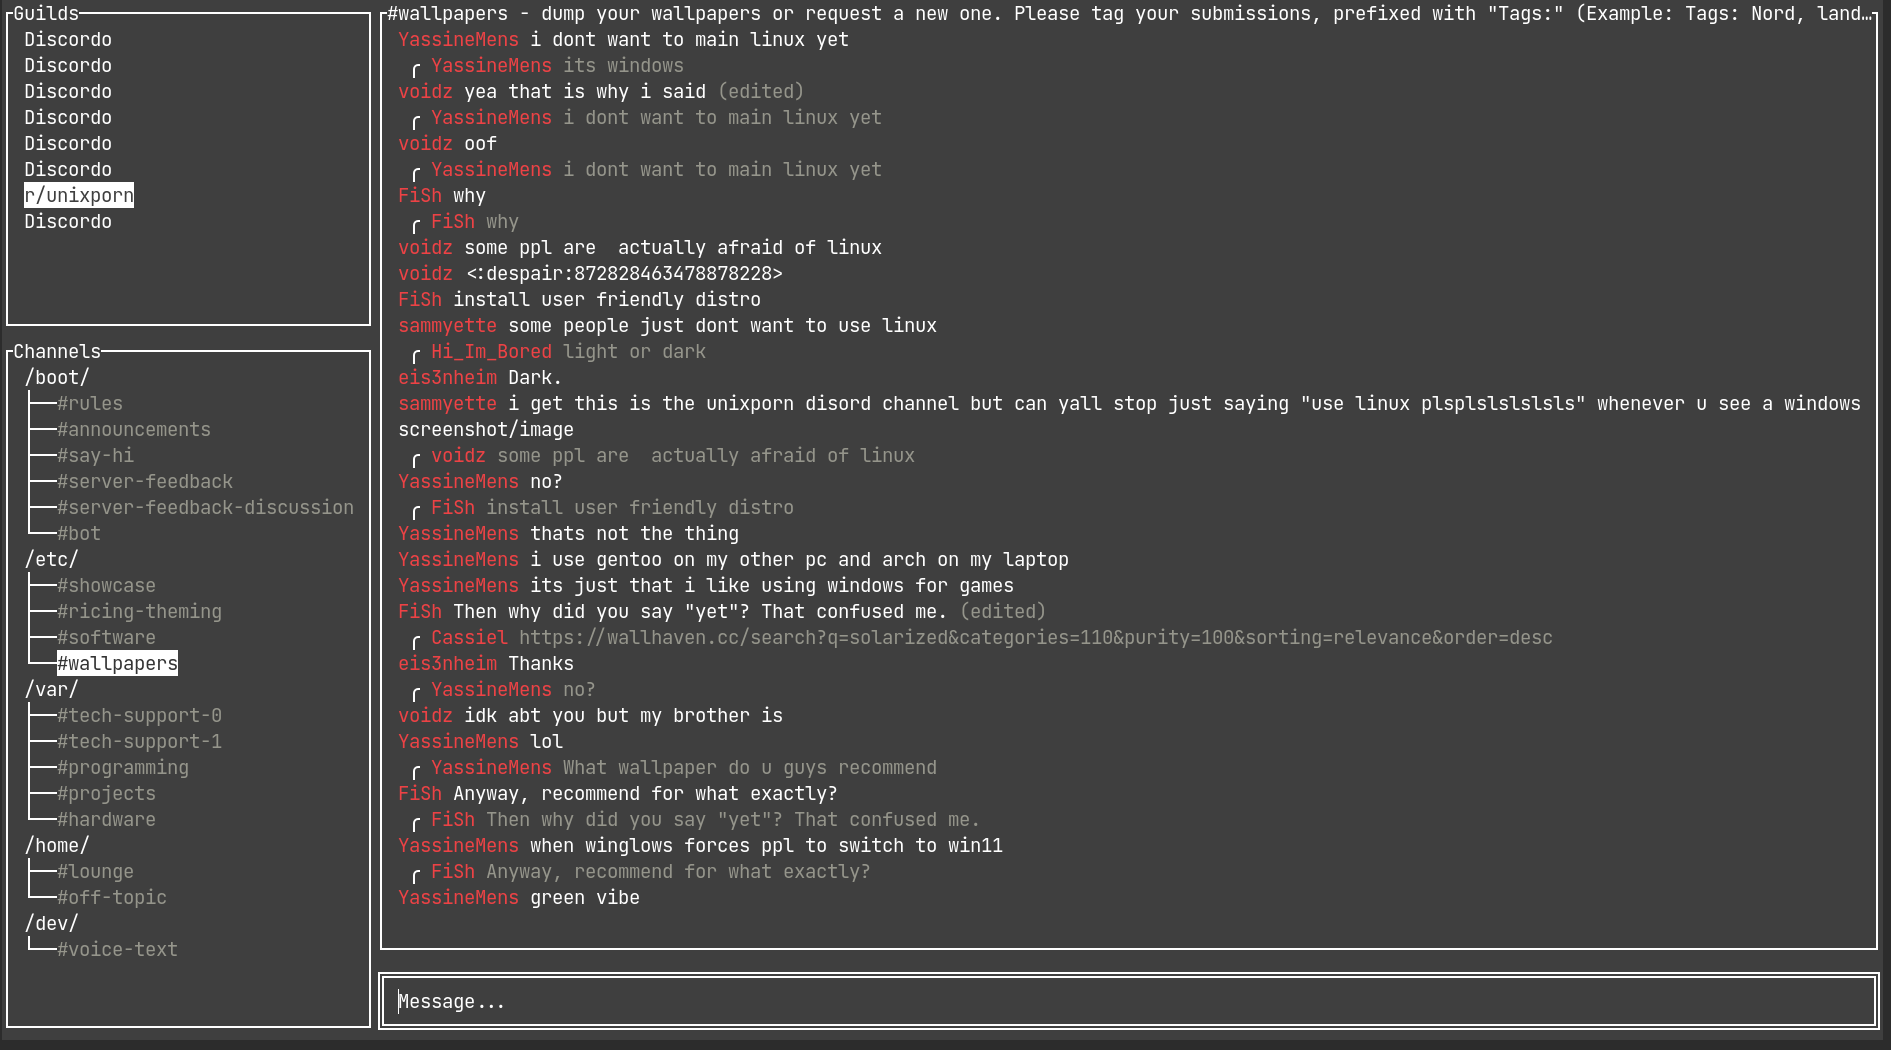
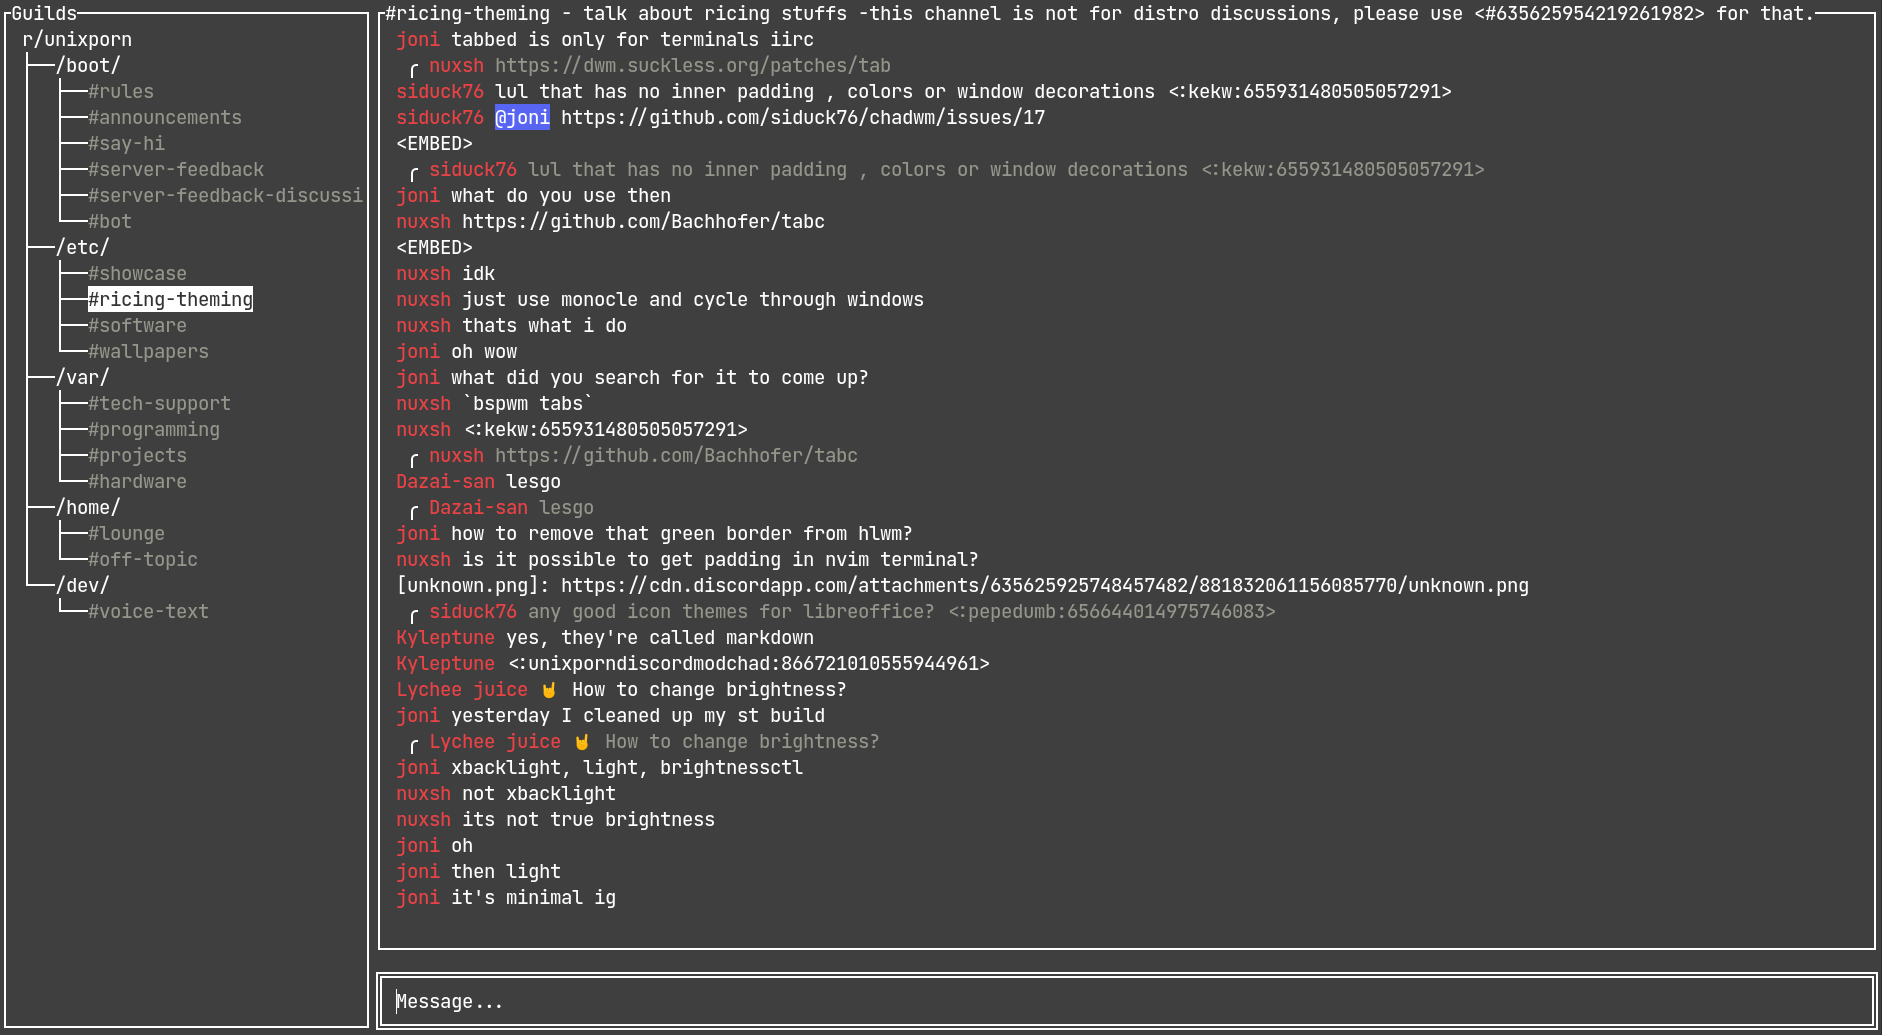
feat: merge channels & guilds TreeView for ease-of-use (#37)
* feat: merge channels & guilds TreeView for ease-of-use

* docs: update README preview

Changed region(s): [[0.0, 0.0, 1.0, 1.0], [0.5239, 0.1546, 0.7705, 0.1855]]

diff --git a/discordo.go b/discordo.go
@@ -16,7 +16,6 @@ var (
 	app               *tview.Application
 	loginForm         *tview.Form
 	guildsTreeView    *tview.TreeView
-	channelsTreeView  *tview.TreeView
 	messagesTextView  *tview.TextView
 	messageInputField *tview.InputField
 	mainFlex          *tview.Flex
@@ -37,10 +36,9 @@ func main() {
 		EnableMouse(config.Mouse).
 		SetInputCapture(onAppInputCapture)
 	guildsTreeView = ui.NewGuildsTreeView(onGuildsTreeViewSelected)
-	channelsTreeView = ui.NewChannelsTreeView(onChannelsTreeViewSelected)
 	messagesTextView = ui.NewMessagesTextView(app)
 	messageInputField = ui.NewMessageInputField(onMessageInputFieldInputCapture)
-	mainFlex = ui.NewMainFlex(guildsTreeView, channelsTreeView, messagesTextView, messageInputField)
+	mainFlex = ui.NewMainFlex(guildsTreeView, messagesTextView, messageInputField)
 
 	token := config.Token
 	if t := util.GetPassword("token"); t != "" {
@@ -72,8 +70,6 @@ func onAppInputCapture(e *tcell.EventKey) *tcell.EventKey {
 	switch e.Name() {
 	case "Alt+Rune[g]":
 		app.SetFocus(guildsTreeView)
-	case "Alt+Rune[c]":
-		app.SetFocus(channelsTreeView)
 	case "Alt+Rune[m]":
 		app.SetFocus(messagesTextView)
 	case "Alt+Rune[i]":
@@ -145,14 +141,14 @@ func onSessionReady(_ *discordgo.Session, r *discordgo.Ready) {
 		return false
 	})
 
-	rootN := guildsTreeView.GetRoot()
+	n := guildsTreeView.GetRoot()
 	for _, g := range r.Guilds {
 		gn := tview.NewTreeNode(g.Name).
 			SetReference(g.ID)
-		rootN.AddChild(gn)
+		n.AddChild(gn)
 	}
 
-	guildsTreeView.SetCurrentNode(rootN)
+	guildsTreeView.SetCurrentNode(n)
 }
 
 func onSessionMessageCreate(_ *discordgo.Session, m *discordgo.MessageCreate) {
@@ -161,40 +157,41 @@ func onSessionMessageCreate(_ *discordgo.Session, m *discordgo.MessageCreate) {
 	}
 }
 
-func onGuildsTreeViewSelected(gn *tview.TreeNode) {
-	selectedChannel = nil
-	app.SetFocus(channelsTreeView)
-	messagesTextView.
-		Clear().
-		SetTitle("")
+func onGuildsTreeViewSelected(n *tview.TreeNode) {
+	switch n.GetLevel() {
+	case 1:
+		if len(n.GetChildren()) != 0 {
+			n.SetExpanded(!n.IsExpanded())
+			return
+		}
 
-	gID := gn.GetReference().(string)
-	g, _ := session.State.Guild(gID)
-	cs := g.Channels
-	sort.Slice(cs, func(i, j int) bool {
-		return cs[i].Position < cs[j].Position
-	})
+		selectedChannel = nil
+		n.ClearChildren()
+		messagesTextView.
+			Clear().
+			SetTitle("")
 
-	rootN := channelsTreeView.GetRoot()
-	rootN.ClearChildren()
-	// Top-level channels
-	ui.CreateTopLevelChannelsTreeNodes(session.State, rootN, cs)
-	// Category channels
-	ui.CreateCategoryChannelsTreeNodes(session.State, rootN, cs)
-	// Second-level channels
-	ui.CreateSecondLevelChannelsTreeNodes(session.State, channelsTreeView, rootN, cs)
+		gID := n.GetReference().(string)
+		g, _ := session.State.Guild(gID)
 
-	channelsTreeView.SetCurrentNode(rootN)
-}
+		cs := g.Channels
+		sort.Slice(cs, func(i, j int) bool {
+			return cs[i].Position < cs[j].Position
+		})
 
-func onChannelsTreeViewSelected(n *tview.TreeNode) {
-	cID := n.GetReference().(string)
-	c, _ := session.State.Channel(cID)
-	switch c.Type {
-	case discordgo.ChannelTypeGuildCategory:
-		n.SetExpanded(!n.IsExpanded())
-	case discordgo.ChannelTypeGuildText, discordgo.ChannelTypeGuildNews:
-		if len(n.GetChildren()) == 0 {
+		// Top-level channels
+		ui.CreateTopLevelChannelsTreeNodes(session.State, n, cs)
+		// Category channels
+		ui.CreateCategoryChannelsTreeNodes(session.State, n, cs)
+		// Second-level channels
+		ui.CreateSecondLevelChannelsTreeNodes(session.State, guildsTreeView, cs)
+	default:
+		cID := n.GetReference().(string)
+		c, _ := session.State.Channel(cID)
+
+		if c.Type == discordgo.ChannelTypeGuildCategory {
+			n.SetExpanded(!n.IsExpanded())
+		} else if c.Type == discordgo.ChannelTypeGuildNews || c.Type == discordgo.ChannelTypeGuildText {
 			selectedChannel = c
 			app.SetFocus(messageInputField)
 
@@ -207,8 +204,6 @@ func onChannelsTreeViewSelected(n *tview.TreeNode) {
 				SetTitle(title)
 
 			go writeMessages(c.ID)
-		} else {
-			n.SetExpanded(!n.IsExpanded())
 		}
 	}
 }

diff --git a/ui/treeviews.go b/ui/treeviews.go
@@ -21,21 +21,6 @@ func NewGuildsTreeView(onGuildsTreeViewSelected func(*tview.TreeNode)) *tview.Tr
 	return v
 }
 
-// NewChannelsTreeView creates and returns a new channels treeview.
-func NewChannelsTreeView(onChannelsTreeViewSelected func(*tview.TreeNode)) *tview.TreeView {
-	v := tview.NewTreeView()
-	v.
-		SetTopLevel(1).
-		SetRoot(tview.NewTreeNode("")).
-		SetSelectedFunc(onChannelsTreeViewSelected).
-		SetBorder(true).
-		SetBorderPadding(0, 0, 1, 0).
-		SetTitle("Channels").
-		SetTitleAlign(tview.AlignLeft)
-
-	return v
-}
-
 // NewTextChannelTreeNode creates and returns a new text channel treenode.
 func NewTextChannelTreeNode(c *discordgo.Channel) *tview.TreeNode {
 	n := tview.NewTreeNode("[::d]#" + c.Name + "[::-]").
@@ -58,8 +43,8 @@ func GetTreeNodeByReference(r interface{}, treeV *tview.TreeView) (mn *tview.Tre
 	return
 }
 
-// CreateTopLevelChannelsTreeNodes creates treenodes for the top-level (orphan) channels.
-func CreateTopLevelChannelsTreeNodes(s *discordgo.State, rootN *tview.TreeNode, cs []*discordgo.Channel) {
+// CreateTopLevelChannelsTreeNodes creates TreeNodes for the top-level (orphan) channels.
+func CreateTopLevelChannelsTreeNodes(s *discordgo.State, n *tview.TreeNode, cs []*discordgo.Channel) {
 	for _, c := range cs {
 		if (c.Type == discordgo.ChannelTypeGuildText || c.Type == discordgo.ChannelTypeGuildNews) && (c.ParentID == "") {
 			if !util.HasPermission(s, s.User.ID, c.ID, discordgo.PermissionViewChannel) {
@@ -67,14 +52,14 @@ func CreateTopLevelChannelsTreeNodes(s *discordgo.State, rootN *tview.TreeNode, 
 			}
 
 			cn := NewTextChannelTreeNode(c)
-			rootN.AddChild(cn)
+			n.AddChild(cn)
 			continue
 		}
 	}
 }
 
-// CreateCategoryChannelsTreeNodes creates treenodes for the category channels.
-func CreateCategoryChannelsTreeNodes(s *discordgo.State, rootN *tview.TreeNode, cs []*discordgo.Channel) {
+// CreateCategoryChannelsTreeNodes creates TreeNodes for the category (parent) channels.
+func CreateCategoryChannelsTreeNodes(s *discordgo.State, n *tview.TreeNode, cs []*discordgo.Channel) {
 CategoryLoop:
 	for _, c := range cs {
 		if c.Type == discordgo.ChannelTypeGuildCategory {
@@ -86,27 +71,27 @@ CategoryLoop:
 				if child.ParentID == c.ID {
 					cn := tview.NewTreeNode(c.Name).
 						SetReference(c.ID)
-					rootN.AddChild(cn)
+					n.AddChild(cn)
 					continue CategoryLoop
 				}
 			}
 
 			cn := tview.NewTreeNode(c.Name).
 				SetReference(c.ID)
-			rootN.AddChild(cn)
+			n.AddChild(cn)
 		}
 	}
 }
 
-// CreateSecondLevelChannelsTreeNodes creates treenodes for the second-level (category children) channels.
-func CreateSecondLevelChannelsTreeNodes(s *discordgo.State, channelsTreeView *tview.TreeView, rootN *tview.TreeNode, cs []*discordgo.Channel) {
+// CreateSecondLevelChannelsTreeNodes creates TreeNodes for the second-level (category children) channels.
+func CreateSecondLevelChannelsTreeNodes(s *discordgo.State, treeV *tview.TreeView, cs []*discordgo.Channel) {
 	for _, c := range cs {
 		if (c.Type == discordgo.ChannelTypeGuildText || c.Type == discordgo.ChannelTypeGuildNews) && (c.ParentID != "") {
 			if !util.HasPermission(s, s.User.ID, c.ID, discordgo.PermissionViewChannel) {
 				continue
 			}
 
-			if pn := GetTreeNodeByReference(c.ParentID, channelsTreeView); pn != nil {
+			if pn := GetTreeNodeByReference(c.ParentID, treeV); pn != nil {
 				cn := NewTextChannelTreeNode(c)
 				pn.AddChild(cn)
 			}

diff --git a/ui/flex.go b/ui/flex.go
@@ -5,17 +5,13 @@ import (
 )
 
 // NewMainFlex creates and returns a new main flex.
-func NewMainFlex(gTreeV *tview.TreeView, cTreeV *tview.TreeView, textV *tview.TextView, i *tview.InputField) *tview.Flex {
-	lf := tview.NewFlex().
-		SetDirection(tview.FlexRow).
-		AddItem(gTreeV, 0, 1, false).
-		AddItem(cTreeV, 0, 2, false)
+func NewMainFlex(treeV *tview.TreeView, textV *tview.TextView, i *tview.InputField) *tview.Flex {
 	rf := tview.NewFlex().
 		SetDirection(tview.FlexRow).
 		AddItem(textV, 0, 1, false).
 		AddItem(i, 3, 1, false)
 	mf := tview.NewFlex().
-		AddItem(lf, 0, 1, false).
+		AddItem(treeV, 0, 1, false).
 		AddItem(rf, 0, 4, false)
 
 	return mf

diff --git a/README.md b/README.md
@@ -43,10 +43,9 @@ By default, Discordo utilizes OS-specific keyring to store credentials such as c
 
 ### Default Keybindings
 
-- `Alt` + `g`: Sets the focus on the guilds treeview.
-- `Alt` + `c`: Sets the focus on the channels treeview.
-- `Alt` + `m`: Sets the focus on the messages textview.
-- `Alt` + `i`: Sets the focus on the message inputfield.
+- `Alt` + `g`: Sets the focus on the guilds TreeView.
+- `Alt` + `m`: Sets the focus on the messages TextView.
+- `Alt` + `i`: Sets the focus on the message InputField.
 
 ### Clipboard
 
